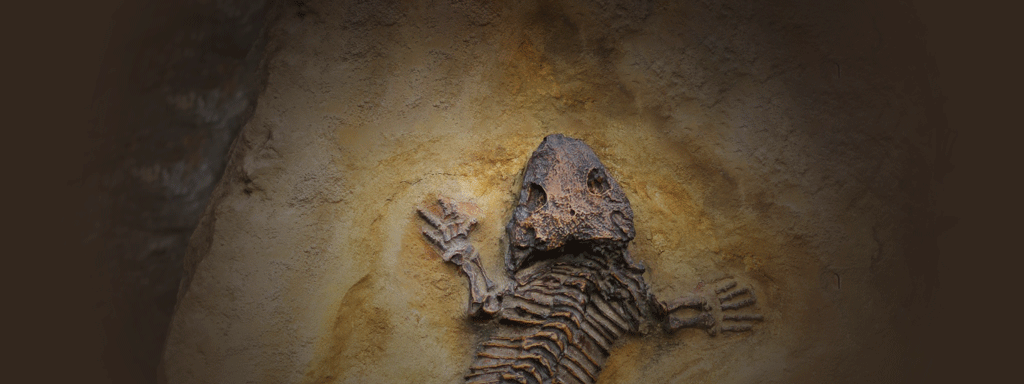
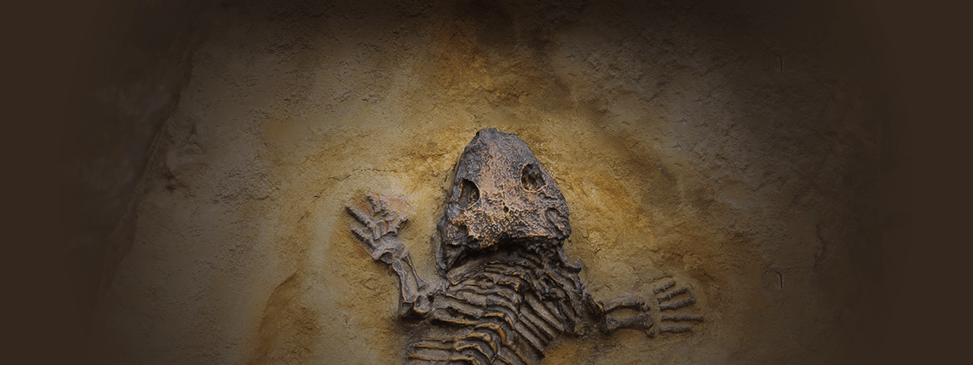
33%

Changed region(s): [[0.1542, 0.0, 0.7708, 1.0]]

diff --git a/css/styles_header.css b/css/styles_header.css
@@ -175,7 +175,7 @@ h1 {
 
 @media only screen and (max-width: 1023.9px) {
   header > div {
-    background-position: left 25% bottom 0;
+    background-position: left 33% top 0;
   }
 
   nav {
